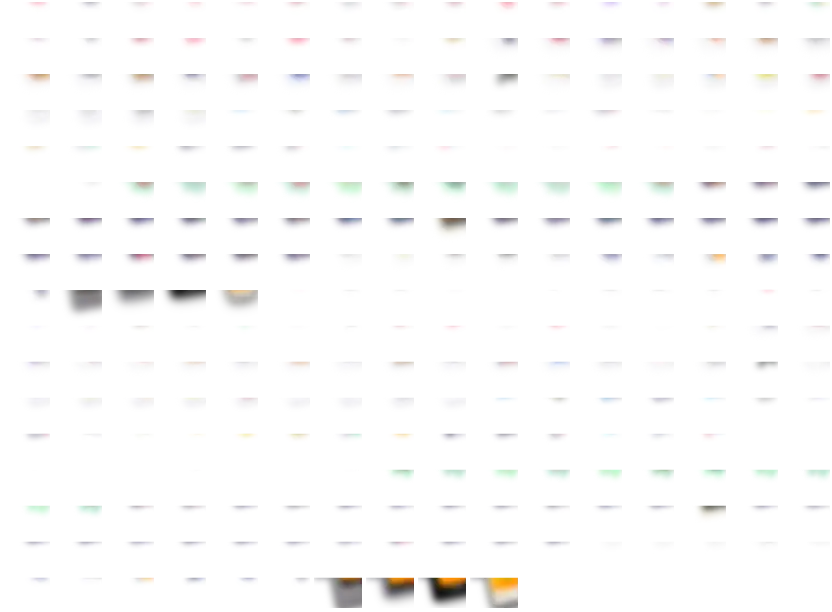
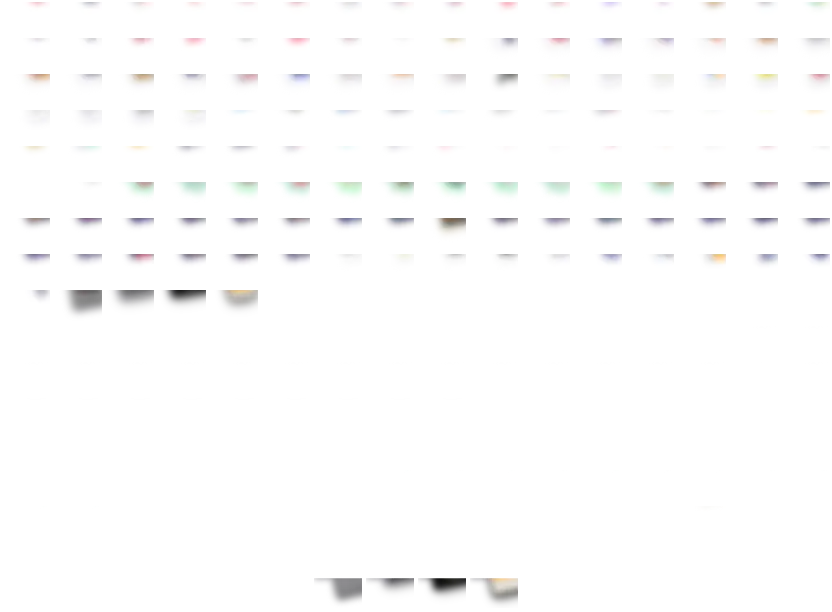
Keep playing cards: the name has two lines of glass, where you are moves onto the color
The glass foot was too short for a two-line name with its details under it
(Mike Tyson's Punch-Out!! ran out of room). The foot now holds the name alone
at a fixed two-line height, and the details stand at the lower left of the
card's color. The baked glow is rebuilt for the new foot.

Claude-Session: https://claude.ai/code/session_015uEsRw6hD2rgSarZKYnZDk

diff --git a/tile-glow.js b/tile-glow.js
@@ -1,4 +1,4 @@
 // Made by scripts/build-tile-glow.js: do not edit. Where each game's glow lies in img/tile-glow.webp, for the
 // home screen's baked frosting (index.html, ==LOOKS==): u, the width of one glow; w and h, the picture's size; t, a
 // tile's glow by game; s, a Keep playing card's; ct and cs, a cartridge's by console. Each is the glow's top left.
-var TILE_GLOW = {"src":"img/tile-glow.webp?v=2b581c26","u":48,"w":832,"h":612,"t":{"2048":[210,110],"hearts":[2,2],"spades":[54,2],"pinochle":[106,2],"euchre":[158,2],"bridge":[210,2],"cribbage":[262,2],"gofish":[314,2],"war":[366,2],"canasta":[418,2],"gin-rummy":[470,2],"crazy8s":[522,2],"wizard":[574,2],"flip7":[626,2],"five-crowns":[678,2],"rook":[730,2],"spanishone":[782,2],"phase10":[2,38],"solitaire":[54,38],"freecell":[106,38],"pyramid":[158,38],"jokerrun":[210,38],"pokersquares":[262,38],"sandlot":[314,38],"lorcana":[366,38],"anoria":[418,38],"chess":[470,38],"checkers":[522,38],"connectfour":[574,38],"tictactoe":[626,38],"chinesecheckers":[678,38],"codebreaker":[730,38],"dominoes":[782,38],"marbles":[2,74],"axisallies":[54,74],"go":[106,74],"othello":[158,74],"backgammon":[210,74],"battleship":[262,74],"dotsboxes":[314,74],"mancala":[366,74],"mahjong4":[418,74],"monopoly":[470,74],"scrabble":[522,74],"yahtzee":[574,74],"plinko":[626,74],"wheeloffortune":[678,74],"dealornodeal":[730,74],"pressyourluck":[782,74],"shellgame":[2,110],"farkle":[54,110],"lrc":[106,110],"fortune":[158,110],"marblesolitaire":[262,110],"slidepuzzle":[314,110],"sudoku":[366,110],"memorymatch":[418,110],"mahjong":[470,110],"mathpuzzles":[522,110],"mazes":[574,110],"mysteries":[626,110],"logicgrid":[678,110],"truthlies":[730,110],"ciphers":[782,110],"riddles":[2,146],"wordle":[54,146],"spellingbee":[106,146],"crossword":[158,146],"boggle":[210,146],"hangman":[262,146],"wordscramble":[314,146],"wordsearch":[366,146],"arrowjam":[418,146],"trivia":[470,146],"wouldyourather":[522,146],"applestoapples":[574,146],"mindmeld":[626,146],"madlibs":[678,146],"bingo":[730,146],"riddlestories":[782,146],"conversation":[2,182],"minigolf":[54,182],"blackjack":[106,182],"poker":[158,182],"roulette":[210,182],"slots":[262,182],"craps":[314,182],"baccarat":[366,182],"horserace":[418,182],"stocks":[470,182],"sportsbook":[522,182],"threecardpoker":[574,182],"paigow":[626,182],"tetris":[678,182],"tetrinet":[730,182],"snake":[782,182],"pacman":[2,218],"donkeykong":[54,218],"breakout":[106,218],"flappybird":[158,218],"crossyroad":[210,218],"willycrash":[262,218],"crazytower":[314,218],"centipede":[366,218],"junglehunt":[418,218],"goblindefenders":[470,218],"galaga":[522,218],"invaders":[574,218],"asteroids":[626,218],"peggle":[678,218],"cubehopper":[730,218],"paddleball":[782,218],"pinball":[2,254],"minesweeper":[54,254],"carmen":[106,254],"hotdogstand":[158,254],"oregon":[210,254],"candymatch":[262,254],"nes":[314,254],"snes":[366,254],"genesis":[418,254],"atari2600":[470,254],"scorecard":[522,254],"dice-roller":[574,254],"randomtools":[626,254],"ranker":[678,254],"players":[730,254],"history":[782,254],"hiscores":[2,290]},"s":{"2048":[470,398],"hearts":[262,290],"spades":[314,290],"pinochle":[366,290],"euchre":[418,290],"bridge":[470,290],"cribbage":[522,290],"gofish":[574,290],"war":[626,290],"canasta":[678,290],"gin-rummy":[730,290],"crazy8s":[782,290],"wizard":[2,326],"flip7":[54,326],"five-crowns":[106,326],"rook":[158,326],"spanishone":[210,326],"phase10":[262,326],"solitaire":[314,326],"freecell":[366,326],"pyramid":[418,326],"jokerrun":[470,326],"pokersquares":[522,326],"sandlot":[574,326],"lorcana":[626,326],"anoria":[678,326],"chess":[730,326],"checkers":[782,326],"connectfour":[2,362],"tictactoe":[54,362],"chinesecheckers":[106,362],"codebreaker":[158,362],"dominoes":[210,362],"marbles":[262,362],"axisallies":[314,362],"go":[366,362],"othello":[418,362],"backgammon":[470,362],"battleship":[522,362],"dotsboxes":[574,362],"mancala":[626,362],"mahjong4":[678,362],"monopoly":[730,362],"scrabble":[782,362],"yahtzee":[2,398],"plinko":[54,398],"wheeloffortune":[106,398],"dealornodeal":[158,398],"pressyourluck":[210,398],"shellgame":[262,398],"farkle":[314,398],"lrc":[366,398],"fortune":[418,398],"marblesolitaire":[522,398],"slidepuzzle":[574,398],"sudoku":[626,398],"memorymatch":[678,398],"mahjong":[730,398],"mathpuzzles":[782,398],"mazes":[2,434],"mysteries":[54,434],"logicgrid":[106,434],"truthlies":[158,434],"ciphers":[210,434],"riddles":[262,434],"wordle":[314,434],"spellingbee":[366,434],"crossword":[418,434],"boggle":[470,434],"hangman":[522,434],"wordscramble":[574,434],"wordsearch":[626,434],"arrowjam":[678,434],"trivia":[730,434],"wouldyourather":[782,434],"applestoapples":[2,470],"mindmeld":[54,470],"madlibs":[106,470],"bingo":[158,470],"riddlestories":[210,470],"conversation":[262,470],"minigolf":[314,470],"blackjack":[366,470],"poker":[418,470],"roulette":[470,470],"slots":[522,470],"craps":[574,470],"baccarat":[626,470],"horserace":[678,470],"stocks":[730,470],"sportsbook":[782,470],"threecardpoker":[2,506],"paigow":[54,506],"tetris":[106,506],"tetrinet":[158,506],"snake":[210,506],"pacman":[262,506],"donkeykong":[314,506],"breakout":[366,506],"flappybird":[418,506],"crossyroad":[470,506],"willycrash":[522,506],"crazytower":[574,506],"centipede":[626,506],"junglehunt":[678,506],"goblindefenders":[730,506],"galaga":[782,506],"invaders":[2,542],"asteroids":[54,542],"peggle":[106,542],"cubehopper":[158,542],"paddleball":[210,542],"pinball":[262,542],"minesweeper":[314,542],"carmen":[366,542],"hotdogstand":[418,542],"oregon":[470,542],"candymatch":[522,542],"nes":[574,542],"snes":[626,542],"genesis":[678,542],"atari2600":[730,542],"scorecard":[782,542],"dice-roller":[2,578],"randomtools":[54,578],"ranker":[106,578],"players":[158,578],"history":[210,578],"hiscores":[262,578]},"ct":{"nes":[54,290],"snes":[106,290],"genesis":[158,290],"atari2600":[210,290]},"cs":{"nes":[314,578],"snes":[366,578],"genesis":[418,578],"atari2600":[470,578]}};
+var TILE_GLOW = {"src":"img/tile-glow.webp?v=7f1005cc","u":48,"w":832,"h":612,"t":{"2048":[210,110],"hearts":[2,2],"spades":[54,2],"pinochle":[106,2],"euchre":[158,2],"bridge":[210,2],"cribbage":[262,2],"gofish":[314,2],"war":[366,2],"canasta":[418,2],"gin-rummy":[470,2],"crazy8s":[522,2],"wizard":[574,2],"flip7":[626,2],"five-crowns":[678,2],"rook":[730,2],"spanishone":[782,2],"phase10":[2,38],"solitaire":[54,38],"freecell":[106,38],"pyramid":[158,38],"jokerrun":[210,38],"pokersquares":[262,38],"sandlot":[314,38],"lorcana":[366,38],"anoria":[418,38],"chess":[470,38],"checkers":[522,38],"connectfour":[574,38],"tictactoe":[626,38],"chinesecheckers":[678,38],"codebreaker":[730,38],"dominoes":[782,38],"marbles":[2,74],"axisallies":[54,74],"go":[106,74],"othello":[158,74],"backgammon":[210,74],"battleship":[262,74],"dotsboxes":[314,74],"mancala":[366,74],"mahjong4":[418,74],"monopoly":[470,74],"scrabble":[522,74],"yahtzee":[574,74],"plinko":[626,74],"wheeloffortune":[678,74],"dealornodeal":[730,74],"pressyourluck":[782,74],"shellgame":[2,110],"farkle":[54,110],"lrc":[106,110],"fortune":[158,110],"marblesolitaire":[262,110],"slidepuzzle":[314,110],"sudoku":[366,110],"memorymatch":[418,110],"mahjong":[470,110],"mathpuzzles":[522,110],"mazes":[574,110],"mysteries":[626,110],"logicgrid":[678,110],"truthlies":[730,110],"ciphers":[782,110],"riddles":[2,146],"wordle":[54,146],"spellingbee":[106,146],"crossword":[158,146],"boggle":[210,146],"hangman":[262,146],"wordscramble":[314,146],"wordsearch":[366,146],"arrowjam":[418,146],"trivia":[470,146],"wouldyourather":[522,146],"applestoapples":[574,146],"mindmeld":[626,146],"madlibs":[678,146],"bingo":[730,146],"riddlestories":[782,146],"conversation":[2,182],"minigolf":[54,182],"blackjack":[106,182],"poker":[158,182],"roulette":[210,182],"slots":[262,182],"craps":[314,182],"baccarat":[366,182],"horserace":[418,182],"stocks":[470,182],"sportsbook":[522,182],"threecardpoker":[574,182],"paigow":[626,182],"tetris":[678,182],"tetrinet":[730,182],"snake":[782,182],"pacman":[2,218],"donkeykong":[54,218],"breakout":[106,218],"flappybird":[158,218],"crossyroad":[210,218],"willycrash":[262,218],"crazytower":[314,218],"centipede":[366,218],"junglehunt":[418,218],"goblindefenders":[470,218],"galaga":[522,218],"invaders":[574,218],"asteroids":[626,218],"peggle":[678,218],"cubehopper":[730,218],"paddleball":[782,218],"pinball":[2,254],"minesweeper":[54,254],"carmen":[106,254],"hotdogstand":[158,254],"oregon":[210,254],"candymatch":[262,254],"nes":[314,254],"snes":[366,254],"genesis":[418,254],"atari2600":[470,254],"scorecard":[522,254],"dice-roller":[574,254],"randomtools":[626,254],"ranker":[678,254],"players":[730,254],"history":[782,254],"hiscores":[2,290]},"s":{"2048":[470,398],"hearts":[262,290],"spades":[314,290],"pinochle":[366,290],"euchre":[418,290],"bridge":[470,290],"cribbage":[522,290],"gofish":[574,290],"war":[626,290],"canasta":[678,290],"gin-rummy":[730,290],"crazy8s":[782,290],"wizard":[2,326],"flip7":[54,326],"five-crowns":[106,326],"rook":[158,326],"spanishone":[210,326],"phase10":[262,326],"solitaire":[314,326],"freecell":[366,326],"pyramid":[418,326],"jokerrun":[470,326],"pokersquares":[522,326],"sandlot":[574,326],"lorcana":[626,326],"anoria":[678,326],"chess":[730,326],"checkers":[782,326],"connectfour":[2,362],"tictactoe":[54,362],"chinesecheckers":[106,362],"codebreaker":[158,362],"dominoes":[210,362],"marbles":[262,362],"axisallies":[314,362],"go":[366,362],"othello":[418,362],"backgammon":[470,362],"battleship":[522,362],"dotsboxes":[574,362],"mancala":[626,362],"mahjong4":[678,362],"monopoly":[730,362],"scrabble":[782,362],"yahtzee":[2,398],"plinko":[54,398],"wheeloffortune":[106,398],"dealornodeal":[158,398],"pressyourluck":[210,398],"shellgame":[262,398],"farkle":[314,398],"lrc":[366,398],"fortune":[418,398],"marblesolitaire":[522,398],"slidepuzzle":[574,398],"sudoku":[626,398],"memorymatch":[678,398],"mahjong":[730,398],"mathpuzzles":[782,398],"mazes":[2,434],"mysteries":[54,434],"logicgrid":[106,434],"truthlies":[158,434],"ciphers":[210,434],"riddles":[262,434],"wordle":[314,434],"spellingbee":[366,434],"crossword":[418,434],"boggle":[470,434],"hangman":[522,434],"wordscramble":[574,434],"wordsearch":[626,434],"arrowjam":[678,434],"trivia":[730,434],"wouldyourather":[782,434],"applestoapples":[2,470],"mindmeld":[54,470],"madlibs":[106,470],"bingo":[158,470],"riddlestories":[210,470],"conversation":[262,470],"minigolf":[314,470],"blackjack":[366,470],"poker":[418,470],"roulette":[470,470],"slots":[522,470],"craps":[574,470],"baccarat":[626,470],"horserace":[678,470],"stocks":[730,470],"sportsbook":[782,470],"threecardpoker":[2,506],"paigow":[54,506],"tetris":[106,506],"tetrinet":[158,506],"snake":[210,506],"pacman":[262,506],"donkeykong":[314,506],"breakout":[366,506],"flappybird":[418,506],"crossyroad":[470,506],"willycrash":[522,506],"crazytower":[574,506],"centipede":[626,506],"junglehunt":[678,506],"goblindefenders":[730,506],"galaga":[782,506],"invaders":[2,542],"asteroids":[54,542],"peggle":[106,542],"cubehopper":[158,542],"paddleball":[210,542],"pinball":[262,542],"minesweeper":[314,542],"carmen":[366,542],"hotdogstand":[418,542],"oregon":[470,542],"candymatch":[522,542],"nes":[574,542],"snes":[626,542],"genesis":[678,542],"atari2600":[730,542],"scorecard":[782,542],"dice-roller":[2,578],"randomtools":[54,578],"ranker":[106,578],"players":[158,578],"history":[210,578],"hiscores":[262,578]},"ct":{"nes":[54,290],"snes":[106,290],"genesis":[158,290],"atari2600":[210,290]},"cs":{"nes":[314,578],"snes":[366,578],"genesis":[418,578],"atari2600":[470,578]}};

diff --git a/index.html b/index.html
@@ -1473,6 +1473,15 @@ html.k-kb .k-sheet:has(.gsheet){max-height:calc(var(--vvh,100vh) - 12px);}
 :root.look:not(.ng-x) .sbox .art{aspect-ratio:1/.66;}
 :root.look:not(.ng-x) .sbox .art::after{display:none;}
 :root.look:not(.ng-x) .sbox.old .art,:root.look:not(.ng-x) .sbox.old .art .gicon{filter:none;}
+/* (Tim, 2026-11-16: "adjust the bottom part of keep playing tiles to fit game names up to two lines long. move the
+   details into the bottom left of the colorful top part"): the glass foot holds the name alone, always two lines tall so
+   every card's foot is the same, and where you are stands at the lower left of the card's color, over the stamped art */
+:root.look:not(.ng-x) .sbox .art{aspect-ratio:1/.92;justify-content:flex-end;padding:0 10px 8px;}
+:root.look:not(.ng-x) .sbox .nm,:root.look:not(.ng-x) .sbox .nm.two{flex:none;height:calc(.86rem * 2.3 + 18px);justify-content:center;padding:9px 10px;}
+:root.look:not(.ng-x) .sbox .art .st,:root.look:not(.ng-x) .sbox.ct .art .st{position:relative;z-index:2;display:flex;flex-direction:column;align-self:stretch;margin:0;padding:0;color:#fff;font-size:.76rem;font-weight:650;line-height:1.22;text-shadow:0 1px 2px rgba(0,0,0,.55),0 0 10px rgba(0,0,0,.4);}
+:root.look:not(.ng-x) .sbox .art .st > span:first-child,:root.look:not(.ng-x) .sbox .art .st.one{color:#fff;font-weight:750;}
+:root.look:not(.ng-x) .sbox .art .st > span + span{color:rgba(255,255,255,.88);font-weight:600;font-size:1em;}
+:root.look:not(.ng-x) .sbox .art .st > span{white-space:nowrap;}
 :root.look:not(.ng-x) .sbox.old .art .gicon{filter:drop-shadow(-4px 8px 10px rgba(0,0,0,.3));}
 
 :root.look:not(.ng-x) :is(.sbox,.sbox.ct) :is(.st,.ago){z-index:2;}
@@ -2324,8 +2333,8 @@ html.k-kb .k-sheet:has(.gsheet){max-height:calc(var(--vvh,100vh) - 12px);}
     var a = el('a', { class: 'sbox' + (ct ? ' ct' : '') + (old ? ' old' : ''), href: 'games/' + f + (/\.html/.test(f) ? '' : '.html'), draggable: 'false', style: { '--c': cat ? 'hsl(' + cat.hue + ' ' + cat.sat + '% 46%)' : g.color, '--h': catHsl(g, 58), '--gc': ct ? catHsl(ct, 30) : g.color }, title: g.name + ': ' + (x.r.label || 'In progress') }, [
       // (in the tile look where you are stands under the name on the card's glass foot, so nothing lies over the art: Tim,
       // 2026-11-15, "I don't want that dark haze over the logos")
-      el('span', { class: 'art' }, [ct ? el('span', { class: 'gicon mini-ct ct-' + ct.sys }, [cartBody(ct)]) : el('span', { html: GameIcon(g.id, { bare: !glassOn() }), style: { display: 'contents' } })].concat(document.documentElement.classList.contains('look') ? [] : [stLines(x.r.label || 'In progress')], [el('span', { class: 'ago', text: ago(x.r.ts, true) })])),
-      el('span', { class: 'nm' }, [el('span', { class: 'bn' }, wholeWords(g.name))].concat(document.documentElement.classList.contains('look') ? [stLines(x.r.label || 'In progress')] : []))
+      el('span', { class: 'art' }, [ct ? el('span', { class: 'gicon mini-ct ct-' + ct.sys }, [cartBody(ct)]) : el('span', { html: GameIcon(g.id, { bare: !glassOn() }), style: { display: 'contents' } })].concat([stLines(x.r.label || 'In progress')], [el('span', { class: 'ago', text: ago(x.r.ts, true) })])),
+      el('span', { class: 'nm' }, [el('span', { class: 'bn' }, wholeWords(g.name))])
     ]);
     // (the name's glass shows the art glowing through it, as a tile's band does; and the texture in the card's color,
     // while there are three to choose from)

diff --git a/service-worker.js b/service-worker.js
@@ -10,7 +10,7 @@
 // the first visit. Total cache size ~3-5MB.
 // ═══════════════════════════════════════════════════════════════════════════
 
-const CACHE_VERSION = 'v883-2026-11-16-faceoff';
+const CACHE_VERSION = 'v884-2026-11-16-keep-playing';
 // Preview channels (familygames-da3e5--name-xyz.web.app) and local testing: pages and code always from the network
 const PREVIEW = self.location.hostname.includes('--') || /^(localhost|127\.0\.0\.1)$/.test(self.location.hostname);
 const CACHE_NAME = 'game-night-' + CACHE_VERSION;

diff --git a/CLAUDE.md b/CLAUDE.md
@@ -146,7 +146,10 @@ Underlying principles for everything:
   in the category's color. The tile view is the art up close (Tim, 2026-11-15, chosen from six looks: "use the art up close, but i want
   the art even bigger"): each game a tile of its own color with its art drawn large and tilted, running off the top right
   corner, the name and player count at the lower left on the color, a console game's cartridge the same way, and the Keep
-  playing cards to match (`html.look`, the `==LOOKS==` block in index.html). The game's own art is stamped faintly into each tile's empty color, large and turned the other way at the lower left (Tim, 2026-11-16, chosen from three textures: "definitely do art stamped in but more subtle"; `.emb`, `embEl` in index.html, opacity .05, "fainter still"), on the Keep playing cards too; a console game keeps its plain color. Quick notes (`Kit.toast`) are lifted glass with a hairline lit along the top.
+  playing cards to match (`html.look`, the `==LOOKS==` block in index.html). The game's own art is stamped faintly into each tile's empty color, large and turned the other way at the lower left (Tim, 2026-11-16, chosen from three textures: "definitely do art stamped in but more subtle"; `.emb`, `embEl` in index.html, opacity .05, "fainter still"), on the Keep playing cards too; a console game keeps its plain color. A Keep playing card's glass foot holds the game's
+  name alone, always two lines tall, and where you are ("Round 9 of 13", "182 pts") stands at the lower left of the card's
+  color (Tim, 2026-11-16: "fit game names up to two lines long. move the details into the bottom left of the colorful top
+  part"; `shelfBox`, the block after `.sbox.old .art` in index.html). Quick notes (`Kit.toast`) are lifted glass with a hairline lit along the top.
 - **What keeps the home screen smooth** (Tim, 2026-11-16: "lagginess, scrolling up and down on the iPad mini in
   landscape"; measured with the CPU slowed 4x at 1024x768). Scrolling: **no `backdrop-filter` on anything repeated per
   tile or card**. A tile's glass band and a Keep playing card's name panel are painted glass, with the art clipped at the
